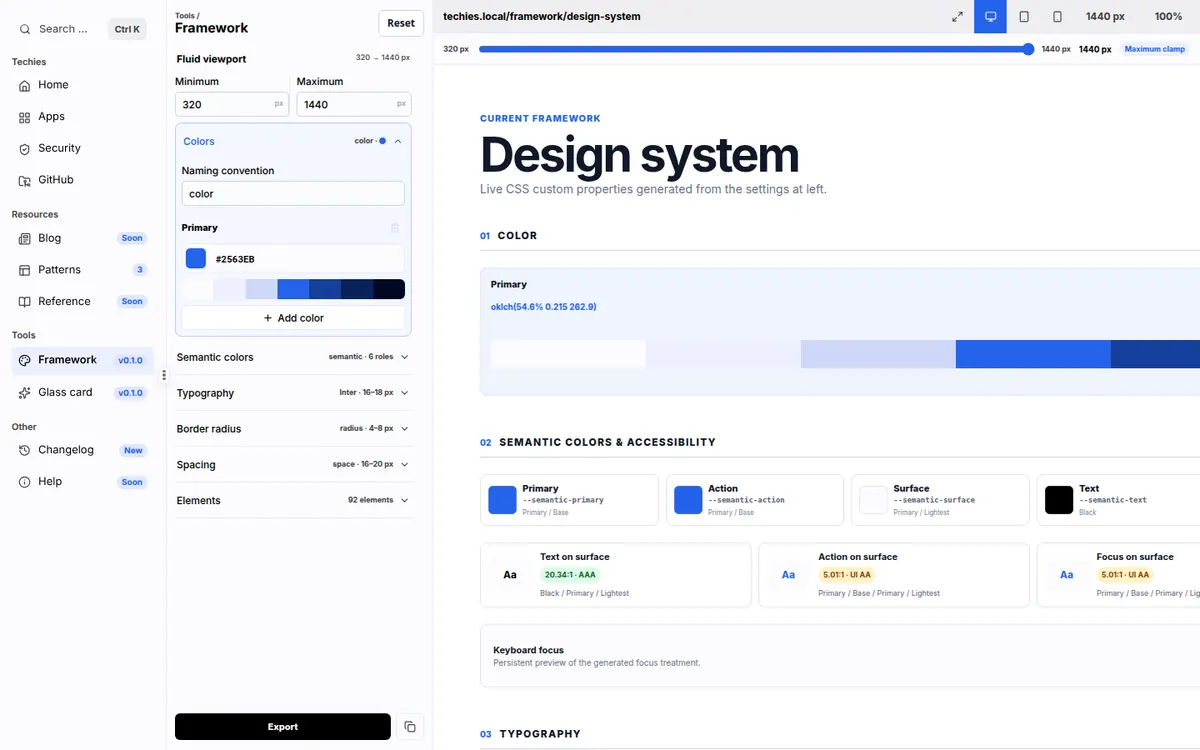
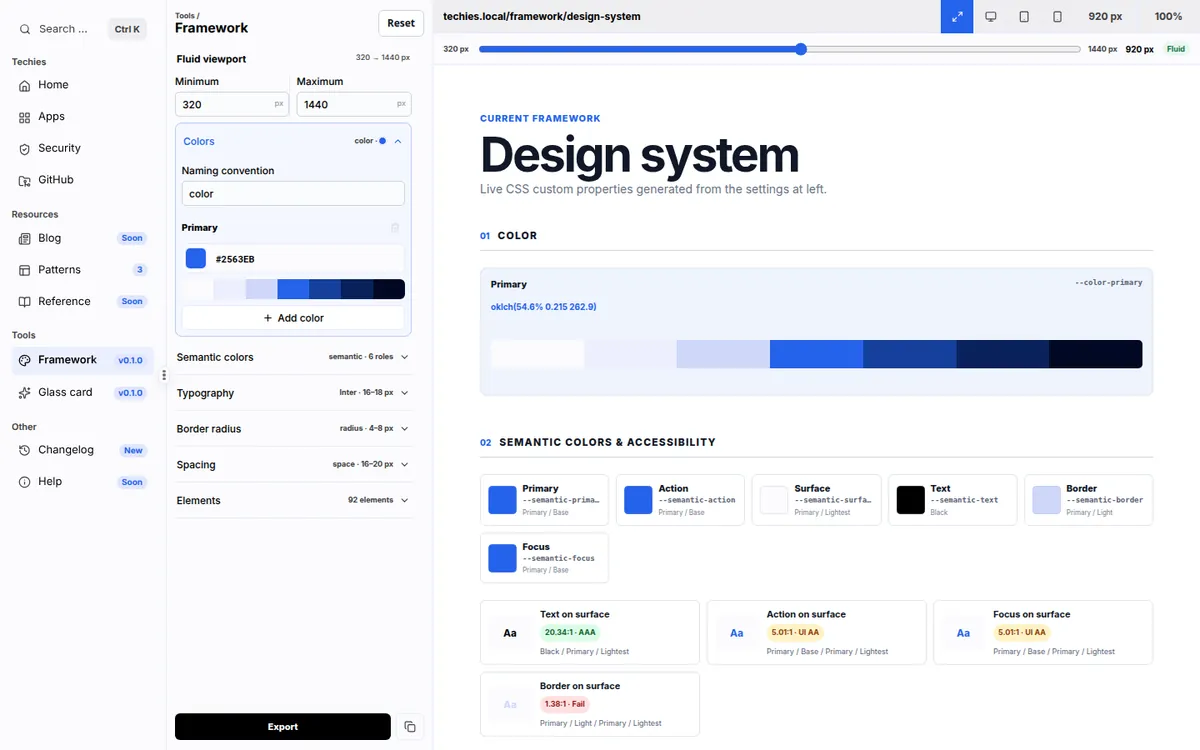
feat(home): add Prompter, Video Review, and the script editor
Add Prompter (prompter.techies.tools), Video Review
(video.techies.tools), and the script editor, shown as coming soon
with no public link. Remove Astro Live Builder and the preview
addresses, and list the public Native Site Editor starter repository.

Replace the Native Site Editor illustration with a screenshot of the
editor running locally against its fake-GitHub demo site, and retake
the Framework and Glass card screenshots with the preview set to Fit.

diff --git a/src/showcase/projects.ts b/src/showcase/projects.ts
@@ -26,7 +26,7 @@ export interface ShowcaseFeature {
   text: string;
 }
 
-export type ShowcaseIcon = "Palette" | "PanelsTopLeft" | "Sparkles" | "PenLine" | "Blocks" | "Camera" | "FlaskConical";
+export type ShowcaseIcon = "Palette" | "PanelsTopLeft" | "Sparkles" | "PenLine" | "Blocks" | "Camera" | "ScrollText" | "NotebookPen" | "Clapperboard";
 
 export interface ShowcaseApp {
   /** URL slug for `/apps/<id>`. */
@@ -41,7 +41,9 @@ export interface ShowcaseApp {
   problem: string;
   fix: string;
   features: readonly ShowcaseFeature[];
-  primary: ShowcaseLink;
+  /** The way in. Apps that are not public yet have none. */
+  primary?: ShowcaseLink;
+  comingSoon?: boolean;
   /** Extra entry points, such as the Framework's three pages. */
   links?: readonly ShowcaseLink[];
   address?: string;
@@ -57,7 +59,6 @@ export interface ShowcaseAddress {
   host: string;
   href: string;
   purpose: string;
-  test?: boolean;
 }
 
 const siteRepository = "TechiesTools";
@@ -163,6 +164,7 @@ export const showcaseApps: readonly ShowcaseApp[] = [
     address: "editor.techies.tools",
     repository: "native-site-editor",
     license: "MIT",
+    image: "/showcase/native-site-editor.webp",
     privacy: [
       "Sign in with GitHub. Your GitHub token stays on the server and never reaches the page's code.",
       "Unsaved drafts stay in your browser until you save.",
@@ -196,6 +198,82 @@ export const showcaseApps: readonly ShowcaseApp[] = [
     ],
   },
   {
+    id: "script-editor",
+    name: "Script editor",
+    kind: "Video scripts · coming soon",
+    home: "subdomain",
+    icon: "NotebookPen",
+    tagline: "Scripts that sound like you.",
+    summary: "A simple, clean editor for video scripts. Select text and ask your own AI assistant to make it simpler, shorter, or more like you.",
+    problem: "Polishing a script with AI means copying text back and forth into a chat and losing track of what changed.",
+    fix: "Select text, pick an edit, and your own connected AI assistant answers right in place, with Keep or Undo.",
+    features: [
+      { title: "One-click edits", text: "Sound like me, Simpler, Shorter, Explain how it works, Check facts, or ask anything about the selected text." },
+      { title: "Before and after", text: "Each answer shows in place next to the original, so you keep it or undo it with one click." },
+      { title: "Your own assistant", text: "There is no built-in AI and nothing to pay for. The assistant you connect over MCP does the work." },
+      { title: "Ready to record", text: "Export the camera script and a Prompter file from the same script." },
+    ],
+    comingSoon: true,
+    image: "/showcase/script-editor.webp",
+    status: "Coming soon. The script editor is still being tested and is not open to the public yet.",
+    privacy: [
+      "Scripts open from and save to your own computer.",
+      "Requests pass between this tab and your assistant without the script text being stored.",
+      "No built-in AI: only the assistant you connect sees your text.",
+    ],
+  },
+  {
+    id: "prompter",
+    name: "Prompter",
+    kind: "Teleprompter · prompter.techies.tools",
+    home: "subdomain",
+    icon: "ScrollText",
+    tagline: "Talk to camera without losing your place.",
+    summary: "A free teleprompter for talking to camera, plus an MCP server so your AI assistant can write the script with you.",
+    problem: "Reading a script on camera means juggling notes, links, and timing, and most teleprompter apps want an account and your script on their servers.",
+    fix: "Big text that scrolls by itself, a second screen that opens your links as you reach them, and a script that lives inside its own link.",
+    features: [
+      { title: "Built for reading", text: "Big text, auto-scroll, a reading line, and a show clock." },
+      { title: "A second screen", text: "A main-screen window opens each section's links as you reach them. YouTube links play full size." },
+      { title: "Script checker", text: "Points out long lines, a missing main question, links in the wrong place, and similar problems." },
+      { title: "Write it with AI", text: "Connect your AI assistant over MCP. It interviews you, writes the script, checks it, and gives you a link." },
+      { title: "Works offline", text: "The whole page is one self-contained HTML file." },
+    ],
+    primary: { label: "Open Prompter", href: "https://prompter.techies.tools" },
+    address: "prompter.techies.tools",
+    image: "/showcase/prompter.webp",
+    privacy: [
+      "No account and no server storage.",
+      "A shared link carries the whole script after the #, which browsers never send to a server.",
+      "The AI connection reads your script, answers, and keeps nothing. It keeps no request logs.",
+    ],
+  },
+  {
+    id: "video-review",
+    name: "Video Review",
+    kind: "Video review · video.techies.tools",
+    home: "subdomain",
+    icon: "Clapperboard",
+    tagline: "Review recordings word by word.",
+    summary: "Watch a recording next to its word-timed transcript, comment on exact moments, and mark what to cut.",
+    problem: "Reviewing a recording means scrubbing back and forth, writing down timecodes by hand, and sending huge video files to whoever helps you edit.",
+    fix: "The video plays straight from your computer beside its transcript. Comment on exact moments, select words to cut, and export the comments and cut list.",
+    features: [
+      { title: "Comments on the timeline", text: "Comment on an exact moment or a range, step frame by frame, and mark comments resolved." },
+      { title: "Cut from the transcript", text: "Select words to cut, shorten pauses, flag retakes, and export the cut list." },
+      { title: "Find anything", text: "Search across every video title and transcript." },
+      { title: "Works with your AI assistant", text: "Connect your assistant to read the comments and suggest changes." },
+    ],
+    primary: { label: "Open Video Review", href: "https://video.techies.tools" },
+    address: "video.techies.tools",
+    image: "/showcase/video-review.webp",
+    privacy: [
+      "Videos play from your computer and are never uploaded.",
+      "Comments and transcripts are saved in your browser. Download a backup at any time.",
+      "A connected assistant reaches this tab through a relay; video files never pass through it.",
+    ],
+  },
+  {
     id: "camframe",
     name: "CamFrame",
     kind: "Desktop app · Windows and macOS",
@@ -218,30 +296,6 @@ export const showcaseApps: readonly ShowcaseApp[] = [
       "Builds are not code-signed yet, so Windows or macOS may ask you to confirm the first launch.",
     ],
   },
-  {
-    id: "astro-live-builder",
-    name: "Astro Live Builder",
-    kind: "Experiment · astro.techies.tools",
-    home: "subdomain",
-    icon: "FlaskConical",
-    tagline: "Astro pages, previewed instantly.",
-    summary: "A visual page builder for Astro websites whose live preview is built entirely in your browser.",
-    problem: "Previewing an Astro page normally needs a server or a build step on every change.",
-    fix: "Astro's real compiler runs in the browser, so the preview updates in about 30 milliseconds.",
-    features: [
-      { title: "Click to find code", text: "Click anything in the preview to jump to the line of code that made it." },
-      { title: "Edit text in place", text: "Double-click text in the preview to change it." },
-      { title: "Insert components", text: "Add components from a side panel and watch them appear." },
-    ],
-    primary: { label: "Try the experiment", href: "https://astro.techies.tools" },
-    address: "astro.techies.tools",
-    image: "/showcase/astro-live-builder.webp",
-    status: "Experiment: it edits a bundled starter site and has been tested in Chromium only. Its code is not public yet.",
-    privacy: [
-      "No sign-in. Drafts stay in your browser.",
-      "Your code runs in a locked-down frame with no server behind it.",
-    ],
-  },
 ];
 
 export const showcaseApp = (id: string): ShowcaseApp | undefined => showcaseApps.find((app) => app.id === id);
@@ -253,15 +307,15 @@ export const showcaseAddresses: readonly ShowcaseAddress[] = [
   { host: "techies.tools", href: "https://techies.tools", purpose: "This website: Framework, Patterns, and Glass card" },
   { host: "editor.techies.tools", href: "https://editor.techies.tools", purpose: "Native Site Editor" },
   { host: "play.techies.tools", href: "https://play.techies.tools", purpose: "Techies Playground" },
-  { host: "astro.techies.tools", href: "https://astro.techies.tools", purpose: "Astro Live Builder experiment" },
-  { host: "preview.techies.tools", href: "https://preview.techies.tools", purpose: "Test version of this website, with upcoming changes", test: true },
-  { host: "preview-editor.techies.tools", href: "https://preview-editor.techies.tools", purpose: "Test version of Native Site Editor", test: true },
+  { host: "prompter.techies.tools", href: "https://prompter.techies.tools", purpose: "Prompter" },
+  { host: "video.techies.tools", href: "https://video.techies.tools", purpose: "Video Review" },
 ];
 
 /** Public GitHub repositories, one row each. */
 export const showcaseRepositories: readonly { name: string; repository: string; summary: string; license?: string }[] = [
   { name: "techies.tools", repository: siteRepository, summary: "This website: Framework, Patterns, and Glass card" },
   ...showcaseApps.flatMap(({ name, repository, summary, license }) => repository && repository !== siteRepository ? [{ name, repository, summary, license }] : []),
+  { name: "Native Site Editor starter", repository: "native-site-editor-starter", summary: "The starter website Native Site Editor offers when you create a new site" },
 ];
 
 export const githubRepositoryUrl = (repository: string): string => `${githubOrganization}/${repository}`;
